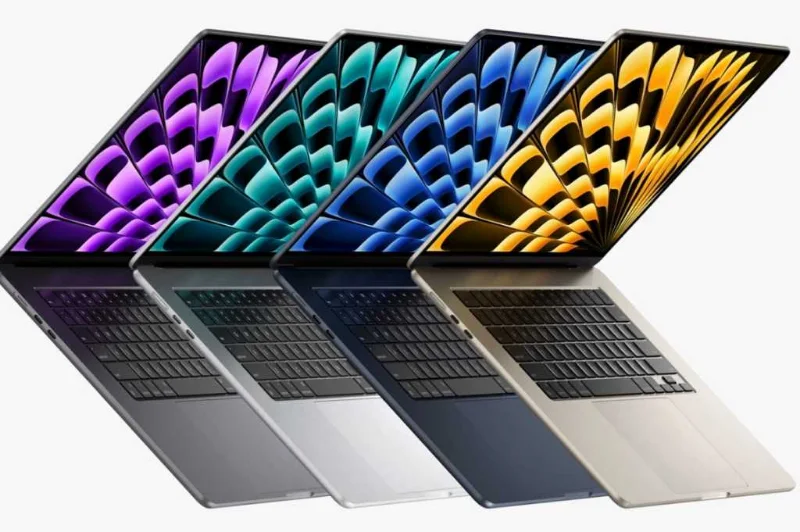
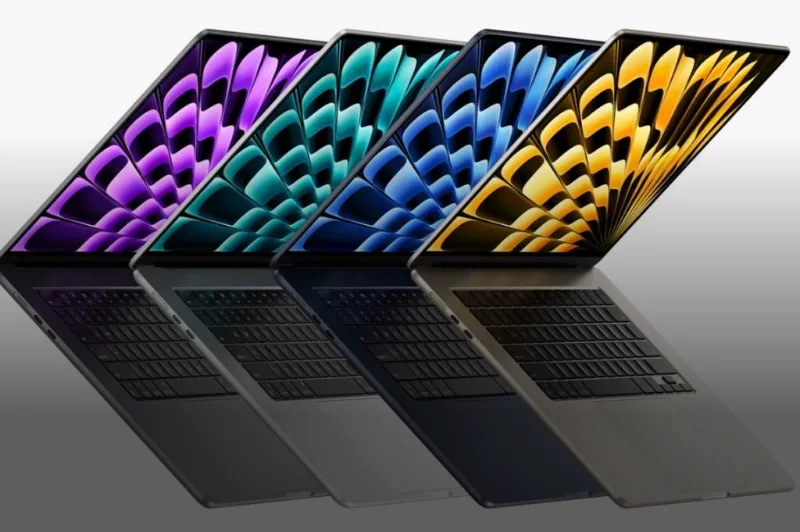
Raise caption contrast on the Tablets and Laptops cards
Both shots have light grounds where the other two cards' are dark. Measured
against the white caption text they came out at 4.36:1 and 3.64:1, under the
4.5:1 AA threshold that 14px body text has to meet. Legibility I claimed was
merely "lighter" when swapping them in was in fact a defect.

Fixed in the files rather than in the card, because the card's gradient is
shared by all four and strengthening it would change Smartphones and
Accessories too.

The ramp reaches full strength at 78% of image height, not 100%. These cards
are wide and short, so object-cover crops them to a middle band and the
visible bottom of the card sits around 80% of the file. A ramp peaking at the
file's bottom edge never peaks anywhere the reader can see, which is why the
first attempt moved Laptops only from 4.12:1 to 4.35:1 despite a large
increase in strength.

All four cards now measure above 4.5:1.

Claude-Session: https://claude.ai/code/session_01SKERq9S9UgqUFMrGUUYter

diff --git a/public/images/CREDITS.md b/public/images/CREDITS.md
@@ -29,6 +29,15 @@ Both were auto-cropped to the bounding box of the devices before resizing. The
 iPad source is 960x1000 with the devices in a band across the middle, so
 uncropped it left most of the card empty white above and below the products.
 
+Both also carry a bottom-weighted darkening baked into the file. Their grounds
+are light where the other two cards' shots are dark, and measured against the
+white caption text they came out at 4.36:1 and 3.64:1, under the 4.5:1 AA
+threshold that 14px body text has to meet. The card's own gradient is shared by
+all four cards and could not be strengthened for these two alone. The ramp
+reaches full strength at 78% of image height rather than 100%, because
+`object-cover` crops these cards to a middle band and a ramp peaking at the
+file's bottom edge never peaks inside the visible area.
+
 ## Device photography
 
 `device-burgundy-*.webp`, `device-black-*.webp`, `lineup-dark-*.jpg` and
